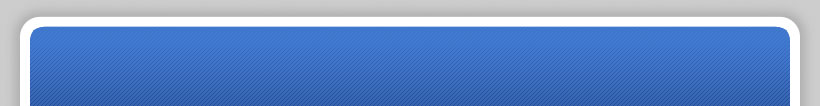
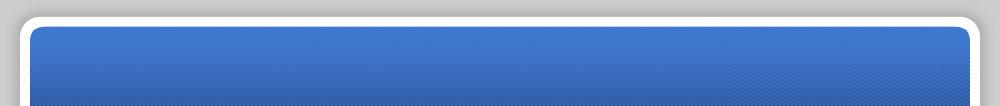
design

diff --git a/mysite/pansionat/static/Refresh.css b/mysite/pansionat/static/Refresh.css
@@ -183,7 +183,7 @@ form.login input.logoutbutton {
    LAYOUT
 ********************************************/ 
 #wrap {
-	width: 820px;
+	width: 1000px;
 	background: #CCC url(content.jpg) repeat-y center top;
 	margin: 0 auto;
 	text-align: left;
@@ -195,7 +195,7 @@ form.login input.logoutbutton {
 	margin: 0 auto;
 }
 #header {
-	width: 820px;
+	width: 1000px;
 	position: relative;
 	height: 106px;
 	background: #CCC url(header.jpg) no-repeat center top;
@@ -332,7 +332,7 @@ form.login input.logoutbutton {
 	color: #666666;
 	background: #CCC url(footer.jpg) no-repeat center top;
 	clear: both;
-	width: 820px;
+	width: 1000px;
 	height: 55px;
 	text-align: center;	
 	font-size: 92%;
